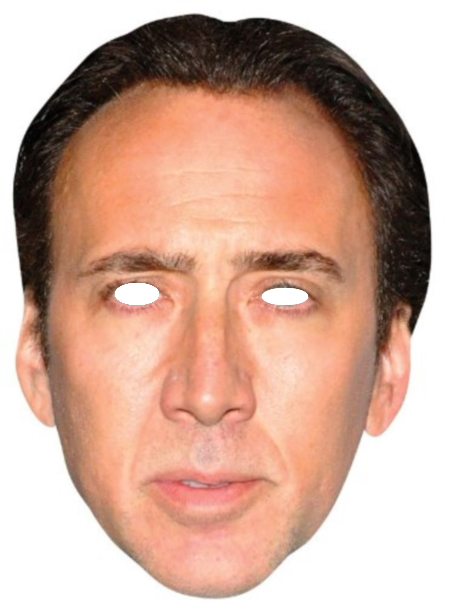
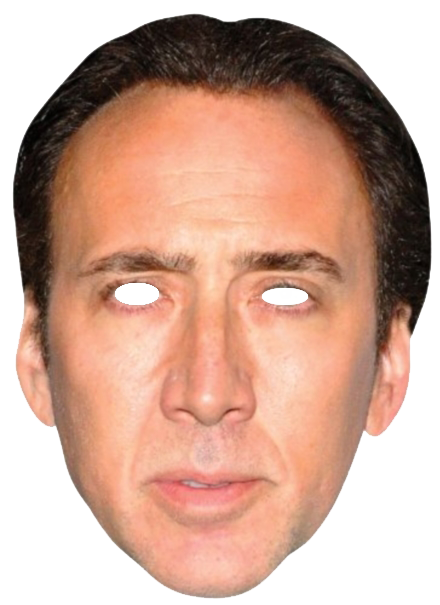
more worshiping

diff --git a/public/index.html b/public/index.html
@@ -6,54 +6,63 @@
   <link rel="stylesheet" type="text/css" href="./bower_components/bootstrap/dist/css/bootstrap.min.css">
   <style>
     #stream {
-      width: 440px;
-      height: 615px;
-      border: 1px solid;
+      width: 230px;
+      height: 320px;
       background-image: url(./images/nickcagemask.png);
+      background-size: contain;
+    }
+    body {
+      background-color: black;
+    }
+    .page-header {
+      color: red;
     }
   </style>
-  <title>Hello Sock Puppet</title>
+  <title>Worship The One True Cage</title>
 </head>
 <body>
-  <div class="container">
-    <div class="jumbotron text-center">
-      <h2>Welcome to Sock Puppet</h2>
-      <p>ONE TRUE CAGE</p>
+    <div class="page-header text-center">
+      <h1>Worship The One True Cage</h1>
     </div>
-    
-    <div id="stream" class="col-xs-4"></div>
-    
-    <div class="col-xs-4">
-      <div id="wag"></div>
-      <button class="btn btn-success" id="servoSweep">Wag your servo</button>
-      <button class="btn btn-danger" id="servoStop">Stay..</button>
-    </div>
-    
-    <div class="col-xs-4">
-      <div id="speak"></div>
-      <button class="btn btn-success" id="ledBlink">Speak!</button>
-      <button class="btn btn-danger" id="ledStop">Sssshhhh...</button>
-    </div>
+    <div class="container">
+
+
+        <div id="stream" class="col-xs-4"></div>
+
+
+
+        <div class="col-xs-4">
+          <div id="wag"></div>
+          <button class="btn btn-success" id="servoSweep">Wag your servo</button>
+          <button class="btn btn-danger" id="servoStop">Stay..</button>
+        </div>
+
+
+        <div class="col-xs-4">
+          <div id="speak"></div>
+          <button class="btn btn-success" id="ledBlink">Speak!</button>
+          <button class="btn btn-danger" id="ledStop">Sssshhhh...</button>
+        </div>
     
   </div>
-  
-  
-  
+
+
+
   <script src="./bower_components/socket.io-client/socket.io.js"></script>
   <script src="./bower_components/jquery/dist/jquery.min.js"></script>
   <script src="./bower_components/bootstrap/dist/js/bootstrap.min.js"></script>
- 
+
 <script type="text/javascript">
     var alive = false;
     var socket = io.connect('/');
-    
-    
+
+
     socket.on('connect', function(data) {
       socket.emit('join');
     });
-    
+
     socket.on('push', function(data){
-      $('#stream').css({"background-color": "rgb(" + data + "," + 0 + "," + 0 + ")"});
+      $('#stream').css({"background-color": "rgb(" + data + "," + 0 + "," + 0 + ")" });
       if(data > 100) {
         alive = true;
         $(':button').attr('disabled', false)
@@ -66,32 +75,31 @@
           $('#wag').html('');
         };
     });
-    
+
     $('#ledBlink').on('click', function(){
       console.log('start led blink');
       socket.emit('led:blink');
       $('#speak').html('<img src="./images/nicspeak.gif">');
     });
-    
+
     $('#ledStop').on('click', function(){
       console.log('stop led blink');
       socket.emit('led:off');
       $('#speak').html('');
     });
-    
+
     $('#servoSweep').on('click', function(){
       console.log('start servo sweep');
       socket.emit('servo:sweep');
       $('#wag').html('<img src="./images/nicwag.gif">')
     });
-    
+
     $('#servoStop').on('click', function(){
       console.log('stop servo sweep');
       socket.emit('servo:stop');
       $('#wag').html('');
     });
- 
+
 </script>
 </body>
 </html>
- 

diff --git a/server.js b/server.js
@@ -3,23 +3,23 @@ var express = require('express');
 var app = express();
 var server = require("http").createServer(app);
 var five = require("johnny-five");
-var io=require('socket.io')(server);
- 
+var io = require('socket.io')(server);
+
 var port = 3000;
- 
+
 app.use(express.static(__dirname + '/public'));
- 
+
 app.get('/', function(req, res) {
         res.sendFile(__dirname + '/public/index.html');
 });
- 
+
 server.listen(port);
-console.log('Server available at http://localhost:' + port);
+console.log('Cage Bot is now available to worship at http://localhost:' + port);
 
 var led;
- 
+
 //Arduino board connection
- 
+
 var board = new five.Board();
 board.on("ready", function() {
     led = new five.Led(13);
@@ -33,47 +33,47 @@ board.on("ready", function() {
     });
     console.log('Arduino connected');
 });
- 
+
 //Socket connection handler
 io.on('connection', function (socket) {
         console.log("your socket id is ", socket.id);
-        
+
         socket.on('join', function(data) {
-          console.log('browser connected');
+          console.log('worshiper connected');
         });
- 
+
         socket.on('led:on', function() {
            led.on();
            console.log('LED ON RECEIVED');
         });
- 
+
         socket.on('led:off', function () {
             led.stop().off();
             console.log('LED OFF RECEIVED');
         });
-        
+
         socket.on('led:blink', function () {
             led.blink(300);
             console.log('LED BLINK RECEIVED');
         });
-        
+
         socket.on('servo:sweep', function () {
             servo.sweep();
             console.log('SERVO SWEEP RECEIVED');
         });
-        
+
         socket.on('servo:stop', function () {
             servo.stop();
             console.log('SERVO STOP RECEIVED');
         });
-        
+
         photoresistor.scale(0,255).on('data', function() {
           socket.emit('push', Math.round(this.value));
         });
-        
+
         socket.on('disconnect', function() {
           console.log('browser closed');
         })
     });
- 
+
 console.log('Waiting for arduino connection..');
